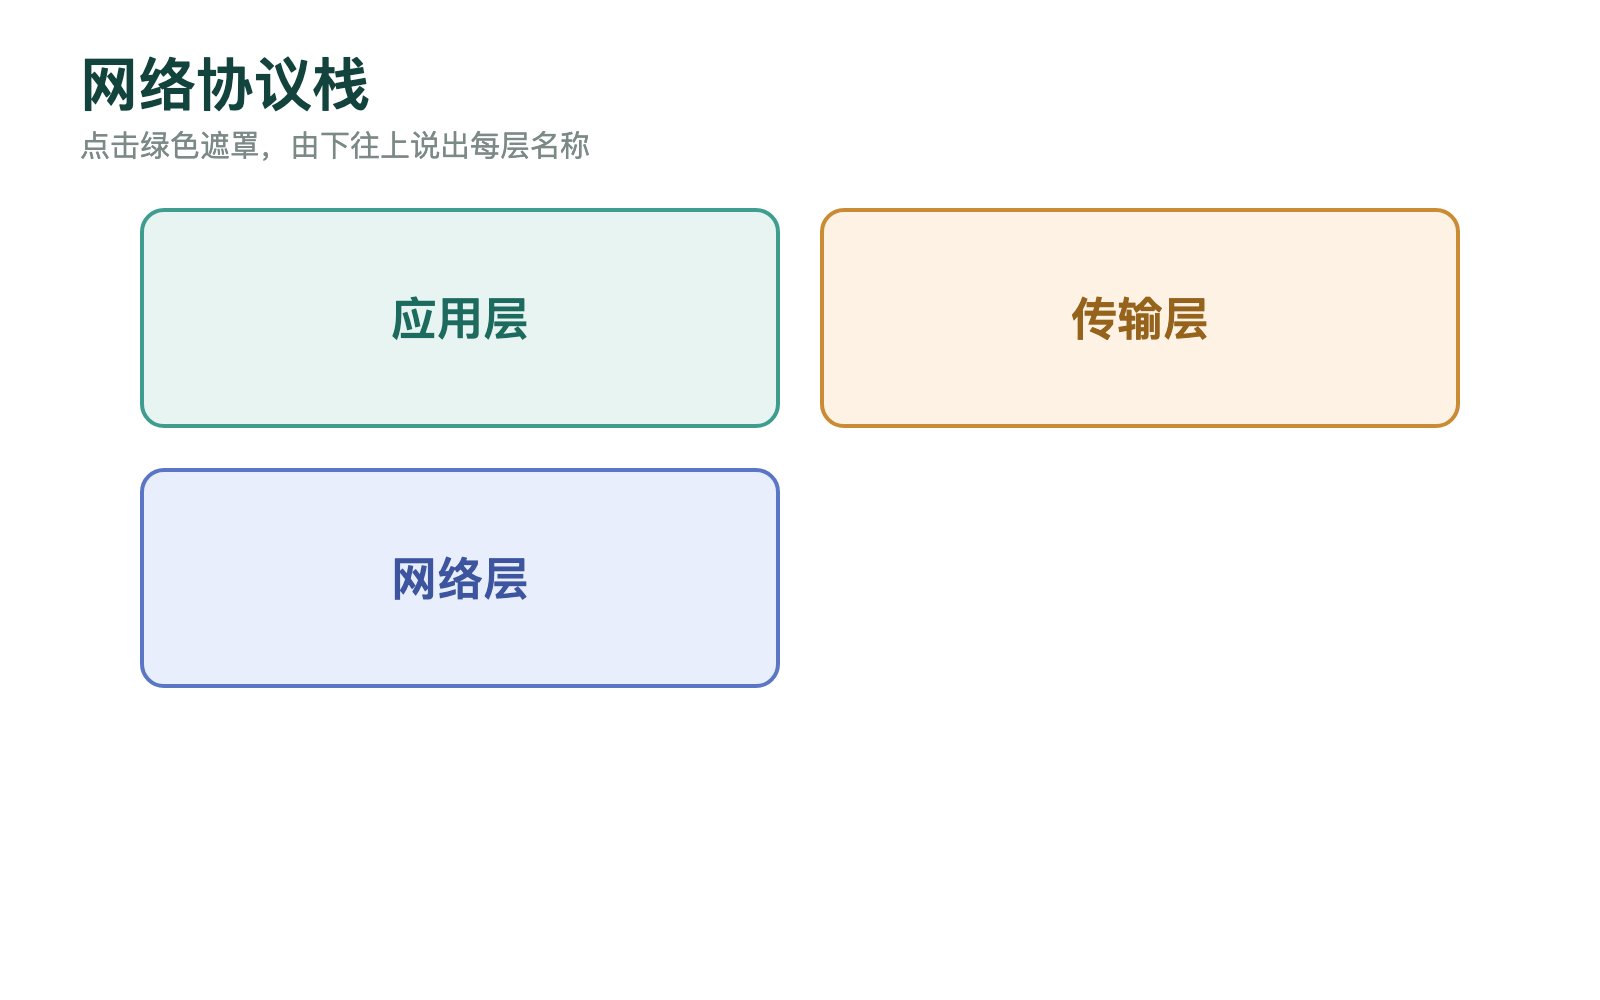
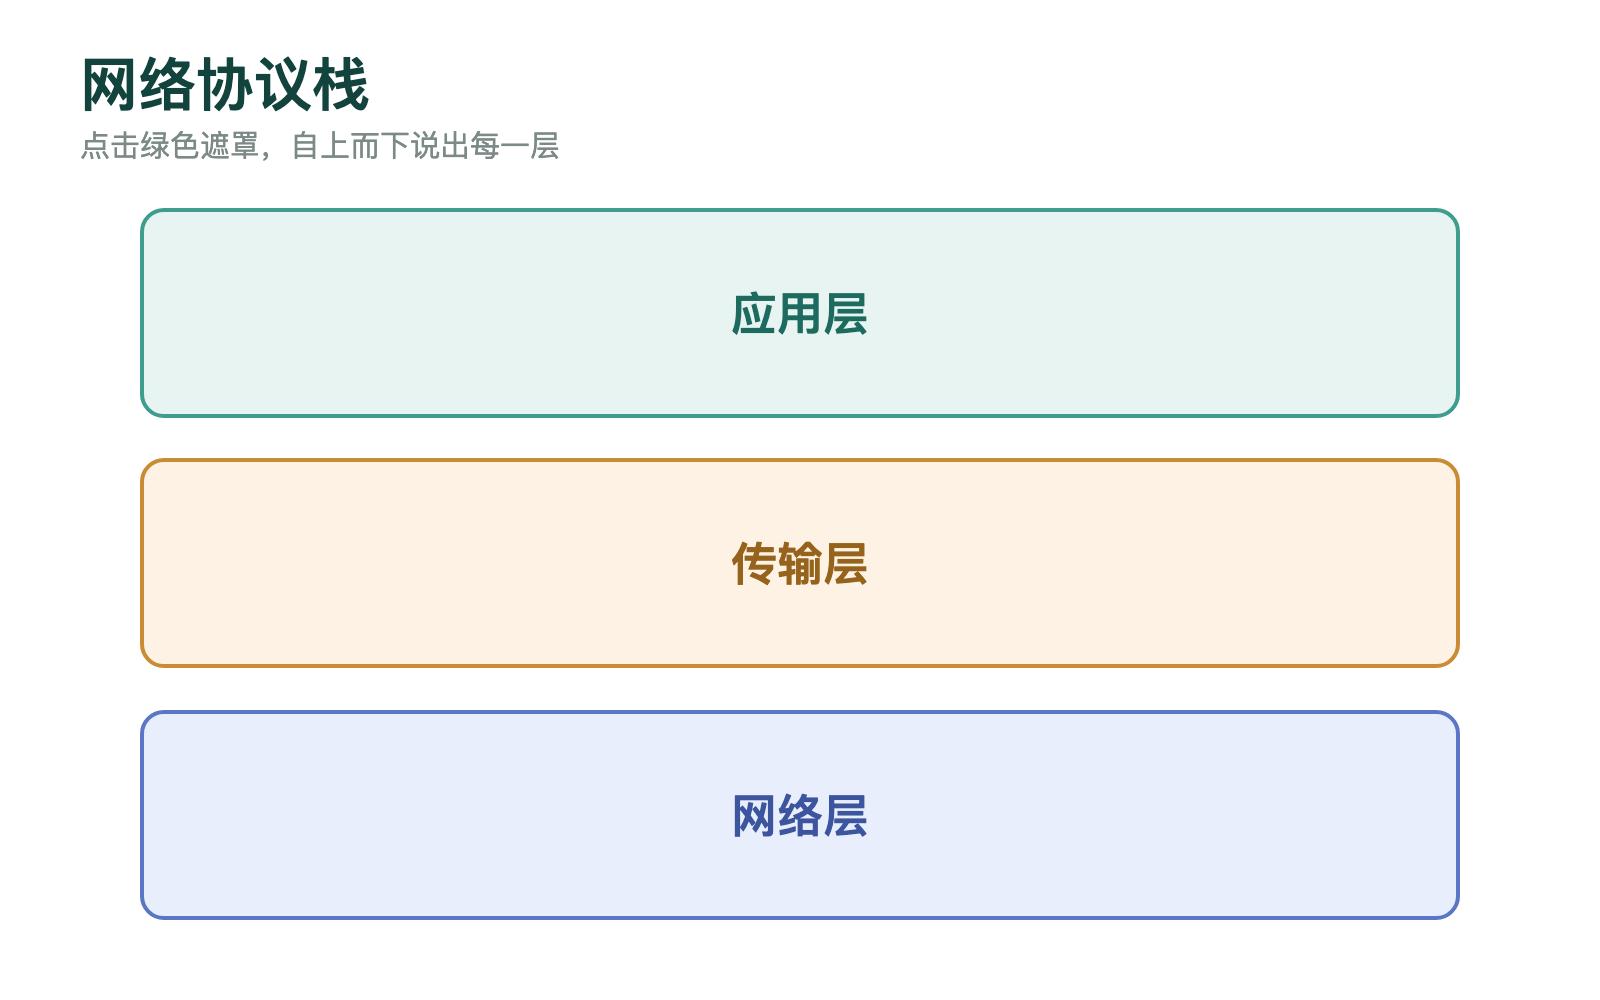
refactor(template): single source of truth for demo geometry
- make_demo_images.py picks a 1- or 2-column grid from the label count and
  writes media/manifest.json with the resulting coordinates
- build_apkg.py reads that manifest instead of hand-copied numbers, so
  regenerating a diagram can never leave a stale mask behind
- demo1 is now a full-width stack (fits a protocol stack), demo2 stays 2-up

diff --git a/image-occlusion-template/tools/make_demo_images.py b/image-occlusion-template/tools/make_demo_images.py
@@ -16,9 +16,9 @@ MEDIA = ROOT / "media"
 CHROME = "/Applications/Google Chrome.app/Contents/MacOS/Google Chrome"
 
 W, H = 800, 500
-COLUMNS = [70, 410]
-ROWS = [104, 234, 364]
-CELL_W, CELL_H = 320, 110
+MARGIN_X = 70
+CONTENT_TOP = 104
+GAP = 20
 FONT = '"PingFang SC","Hiragino Sans GB","Microsoft YaHei",sans-serif'
 PALETTE = [
     ("#e7f4f1", "#3f9d8f", "#1d6b5f"),
@@ -30,34 +30,52 @@ PALETTE = [
 ]
 
 
-def centre_percent(index: int) -> tuple[float, float]:
-    row, column = divmod(index, 2)
-    return (
-        (COLUMNS[column] + CELL_W / 2) / W * 100,
-        (ROWS[row] + CELL_H / 2) / H * 100,
-    )
+def grid(count: int, columns: int) -> tuple[float, float]:
+    """Return the (cell width, cell height) that fits `count` labels.
+
+    A single column produces full-width bars (good for a protocol stack); two
+    columns split the canvas left/right (good for a parts diagram).
+    """
+    rows = (count + columns - 1) // columns
+    width = (W - 2 * MARGIN_X - (columns - 1) * GAP) / columns
+    height = (H - CONTENT_TOP - 40 - (rows - 1) * GAP) / rows
+    return width, height
 
 
-def box_percent(index: int) -> str:
+def cell_box(index: int, columns: int, count: int) -> dict:
+    row, column = divmod(index, columns)
+    cell_w, cell_h = grid(count, columns)
+    return {
+        "left": MARGIN_X + column * (cell_w + GAP),
+        "top": CONTENT_TOP + row * (cell_h + GAP),
+        "width": cell_w,
+        "height": cell_h,
+    }
+
+
+def box_percent(index: int, columns: int, count: int) -> str:
     """`x,y,w,h` percentages for the nth cell, row-major."""
-    row, column = divmod(index, 2)
-    left = COLUMNS[column] / W * 100
-    top = ROWS[row] / H * 100
+    box = cell_box(index, columns, count)
     return ",".join(
         f"{value:g}"
-        for value in (round(left, 2), round(top, 2),
-                      round(CELL_W / W * 100, 2), round(CELL_H / H * 100, 2))
+        for value in (
+            round(box["left"] / W * 100, 2),
+            round(box["top"] / H * 100, 2),
+            round(box["width"] / W * 100, 2),
+            round(box["height"] / H * 100, 2),
+        )
     )
 
 
-def build_html(title: str, sub: str, labels: list[str]) -> str:
+def build_html(title: str, sub: str, labels: list[str], columns: int) -> str:
     cells = []
     for index, name in enumerate(labels):
-        row, column = divmod(index, 2)
+        box = cell_box(index, columns, len(labels))
         bg, border, ink = PALETTE[index % len(PALETTE)]
         cells.append(
-            f'<div class="cell" style="left:{COLUMNS[column]}px;top:{ROWS[row]}px;'
-            f'width:{CELL_W}px;height:{CELL_H}px;background:{bg};border-color:{border}">'
+            f'<div class="cell" style="left:{box["left"]:.0f}px;top:{box["top"]:.0f}px;'
+            f'width:{box["width"]:.0f}px;height:{box["height"]:.0f}px;'
+            f'background:{bg};border-color:{border}">'
             f'<span style="color:{ink}">{name}</span></div>'
         )
     return (
@@ -73,10 +91,10 @@ def build_html(title: str, sub: str, labels: list[str]) -> str:
     )
 
 
-def render(name: str, title: str, sub: str, labels: list[str]) -> dict:
+def render(name: str, title: str, sub: str, labels: list[str], columns: int) -> dict:
     MEDIA.mkdir(parents=True, exist_ok=True)
     html_path = MEDIA / f"{name}.html"
-    html_path.write_text(build_html(title, sub, labels), encoding="utf-8")
+    html_path.write_text(build_html(title, sub, labels, columns), encoding="utf-8")
     png = MEDIA / f"{name}.png"
     subprocess.run(
         [CHROME, "--headless", "--disable-gpu", "--hide-scrollbars",
@@ -86,21 +104,28 @@ def render(name: str, title: str, sub: str, labels: list[str]) -> dict:
     )
     html_path.unlink()
     coordinates = ";".join(
-        f"{box_percent(i)},{i + 1}" for i in range(len(labels))
+        f"{box_percent(i, columns, len(labels))},{i + 1}" for i in range(len(labels))
     )
     return {"image": png.name, "coordinates": coordinates}
 
 
+# name -> (title, subtitle, labels, columns)
 DEMOS = {
-    "demo1": ("网络协议栈", "点击绿色遮罩，由下往上说出每层名称",
-              ["应用层", "传输层", "网络层"]),
+    "demo1": ("网络协议栈", "点击绿色遮罩，自上而下说出每一层",
+              ["应用层", "传输层", "网络层"], 1),
     "demo2": ("计算机组成", "点击绿色遮罩，逐个说出部件名称",
-              ["运算器", "控制器", "存储器", "输入设备", "输出设备", "总线"]),
+              ["运算器", "控制器", "存储器", "输入设备", "输出设备", "总线"], 2),
 }
 
 
 def main() -> int:
     result = {name: render(name, *payload) for name, payload in DEMOS.items()}
+    # The apkg builder reads this manifest instead of hand-copied numbers, so a
+    # regenerated diagram can never leave a stale mask behind.
+    manifest = MEDIA / "manifest.json"
+    manifest.write_text(
+        json.dumps(result, ensure_ascii=False, indent=2) + "\n", encoding="utf-8"
+    )
     print(json.dumps(result, ensure_ascii=False, indent=2))
     return 0
 

diff --git a/image-occlusion-template/tools/build_apkg.py b/image-occlusion-template/tools/build_apkg.py
@@ -37,24 +37,43 @@ DECK_DESCRIPTION = (
 )
 
 # --- Sample notes -------------------------------------------------------------
-# (image file, Coordinates, Question, Answer, Note)
-SAMPLES: list[tuple[str, str, str, str, str]] = [
-    (
-        "demo1.png",
-        "8.75,20.8,40,22,1;51.25,20.8,40,22,2;8.75,46.8,40,22,3",
+# The diagram layout (and therefore the mask coordinates) lives in exactly one
+# place: tools/make_demo_images.py. It writes media/manifest.json, which this
+# builder consumes so a regenerated picture can never leave a stale mask behind.
+# name -> (question, answer, note)
+SAMPLE_NOTES: dict[str, tuple[str, str, str]] = {
+    "demo1": (
         "网络协议栈自上而下有哪些层？",
         "应用层（HTTP / DNS）、传输层（TCP / UDP）、网络层（IP / ICMP）。",
         "记忆口诀：应用传网链，逐层封装。",
     ),
-    (
-        "demo2.png",
-        "8.75,20.8,40,22,1;51.25,20.8,40,22,2;8.75,46.8,40,22,3;"
-        "51.25,46.8,40,22,4;8.75,72.8,40,22,5;51.25,72.8,40,22,6",
+    "demo2": (
         "计算机由哪些主要部件组成？",
         "运算器、控制器、存储器、输入设备、输出设备，由总线连接。",
         "运算器 + 控制器 = CPU；存储器分主存与辅存。",
     ),
-]
+}
+
+
+def sample_manifest() -> dict:
+    manifest = MEDIA_DIR / "manifest.json"
+    if not manifest.is_file():
+        raise FileNotFoundError(
+            "media/manifest.json is missing; run tools/make_demo_images.py first"
+        )
+    return json.loads(manifest.read_text(encoding="utf-8"))
+
+
+def samples() -> list[tuple[str, str, str, str, str]]:
+    """Join the generated coordinates with the hand-written prompt text."""
+    manifest = sample_manifest()
+    rows = []
+    for name, (question, answer, note) in SAMPLE_NOTES.items():
+        entry = manifest.get(name)
+        if not entry:
+            raise KeyError(f"media/manifest.json has no entry for {name!r}")
+        rows.append((entry["image"], entry["coordinates"], question, answer, note))
+    return rows
 
 
 def read(name: str) -> str:
@@ -88,7 +107,7 @@ def build_collection(col, with_samples: bool) -> None:
         col.decks.save(deck)
 
     note_type = models.by_name(NOTE_TYPE_NAME)
-    for image, coordinates, question, answer, note in SAMPLES:
+    for image, coordinates, question, answer, note in samples():
         note_obj = col.new_note(note_type)
         note_obj["Question"] = question
         note_obj["Image"] = f'<img src="{image}">'
@@ -200,13 +219,13 @@ def main(argv: list[str] | None = None) -> int:
 
     verify_package(
         output,
-        expected_notes=0 if args.no_samples else len(SAMPLES),
+        expected_notes=0 if args.no_samples else len(samples()),
         assets=assets,
     )
 
     print(f"media embedded: {len(assets)}")
     if not args.no_samples:
-        print(f"sample notes: {len(SAMPLES)}")
+        print(f"sample notes: {len(samples())}")
     print(f"wrote {output} ({output.stat().st_size} bytes)")
     return 0
 
